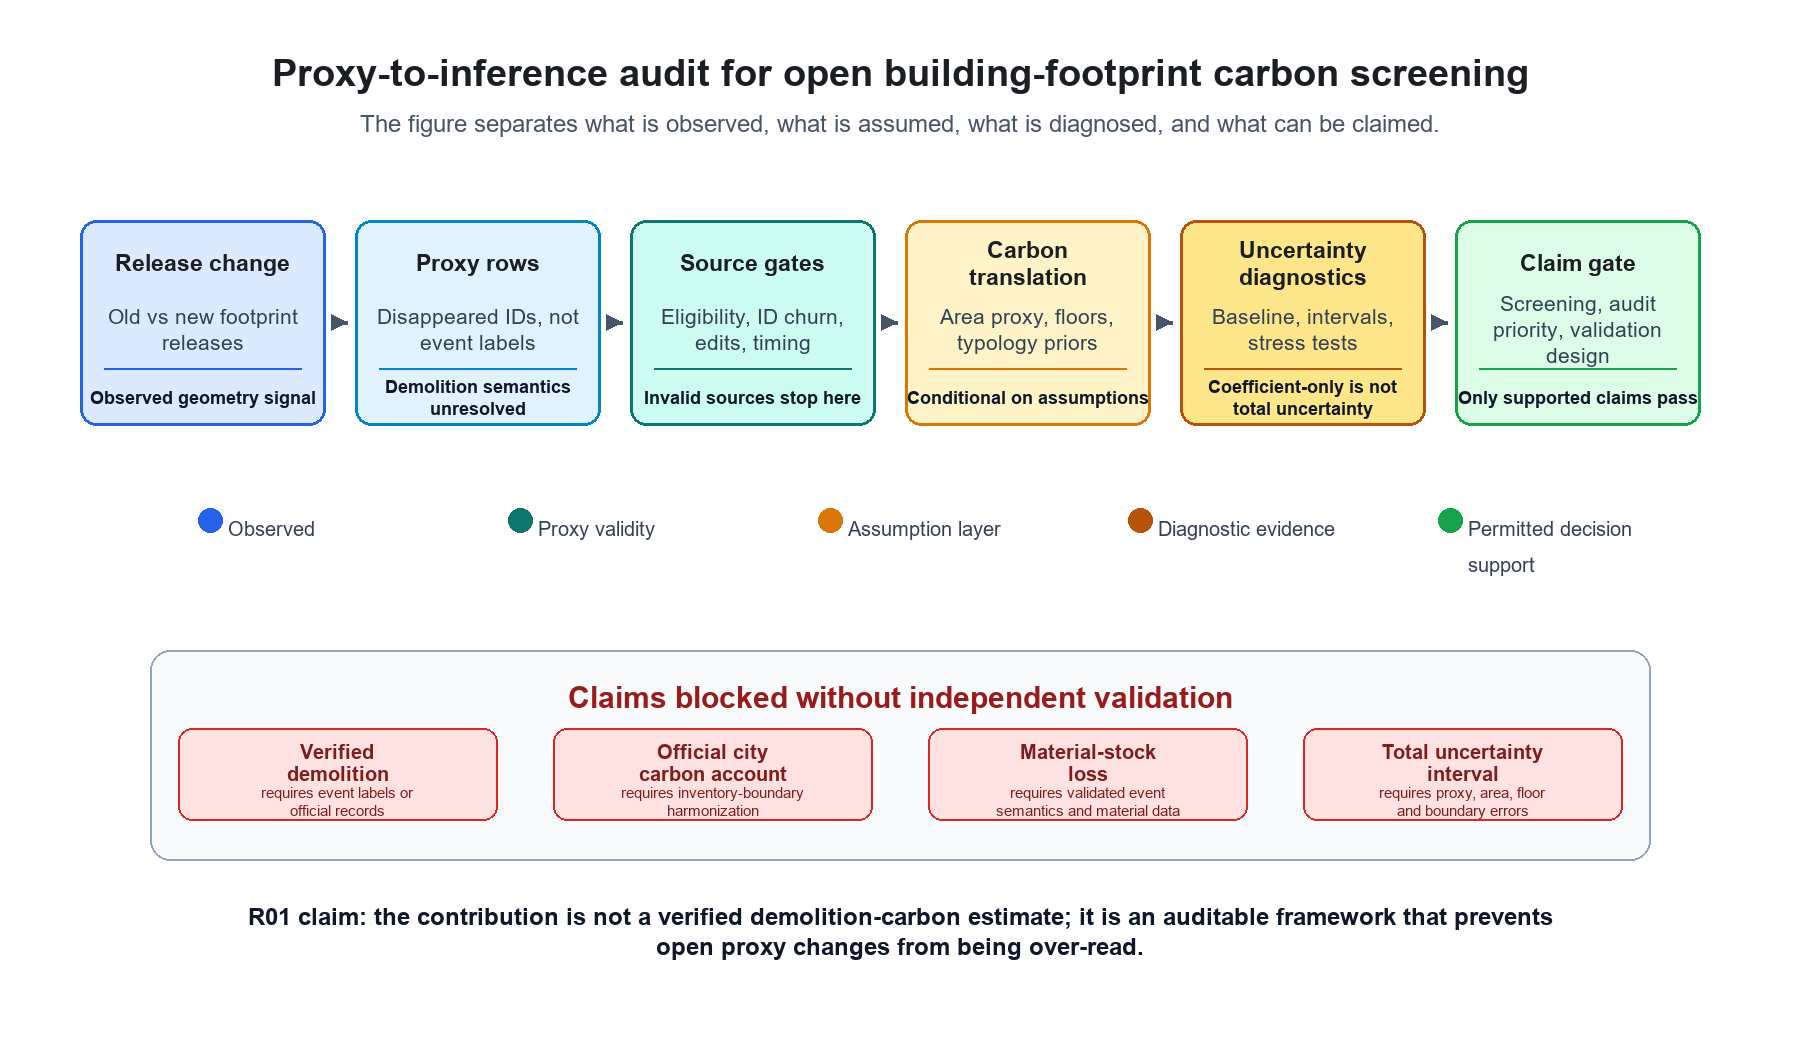
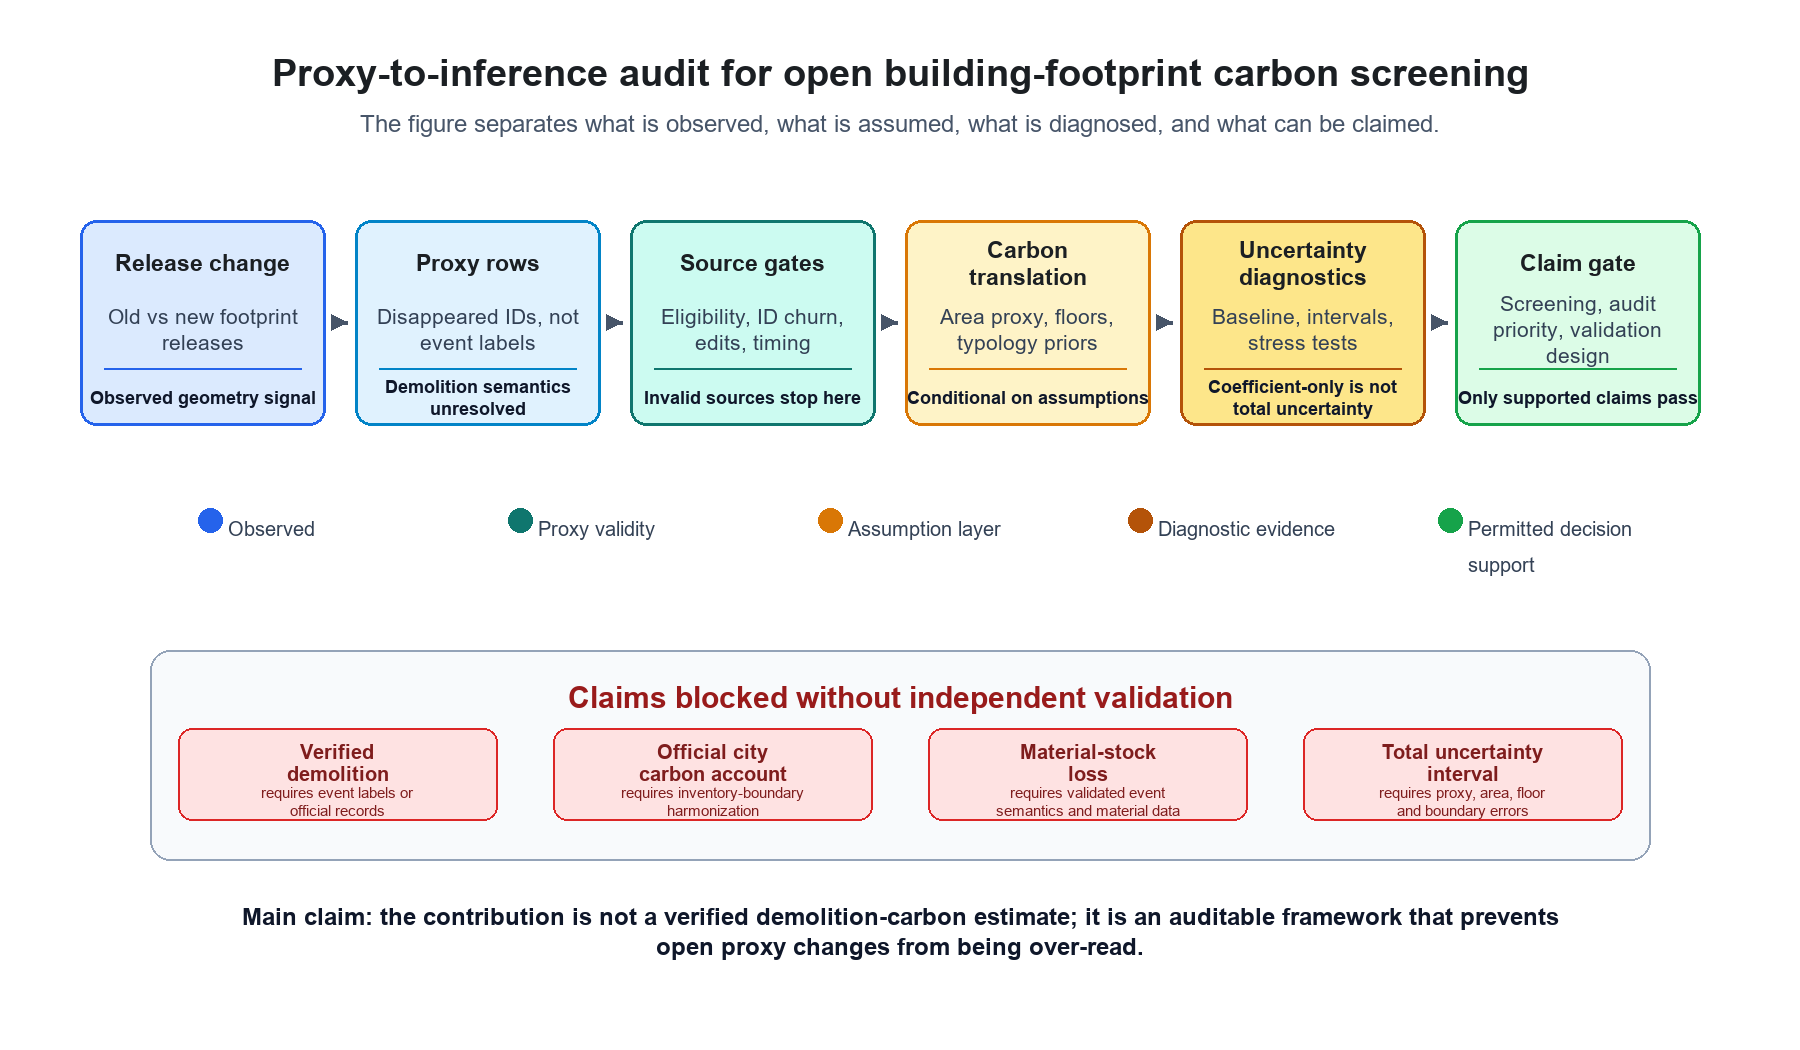
Fix figure labels and headless rebuild script

Changed region(s): [[0.1244, 0.8533, 0.8711, 0.8838]]

diff --git a/scripts/r03/rebuild_fig5_with_persistence.py b/scripts/r03/rebuild_fig5_with_persistence.py
@@ -2,6 +2,9 @@ from __future__ import annotations
 
 from pathlib import Path
 
+import matplotlib
+
+matplotlib.use("Agg")
 import matplotlib.pyplot as plt
 import numpy as np
 import pandas as pd
